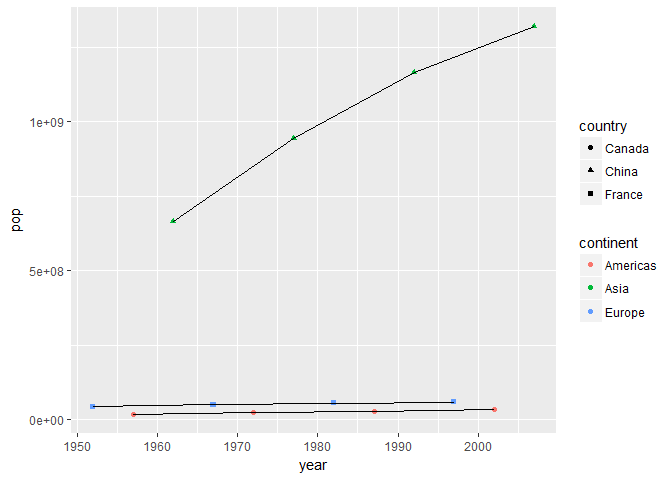
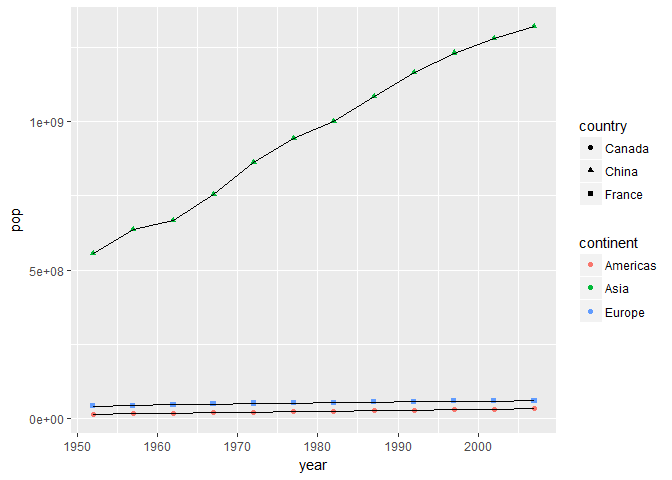
Finish the homework2

diff --git a/hw2/Gapminder_data.md b/hw2/Gapminder_data.md
@@ -9,7 +9,7 @@ Bring rectangular data in
 ``` r
 ##install.packages("gapminder")
 
-##install.packages("tidyverse")
+##install.packages("tidyverse") 
 ```
 
 ### Load the data
@@ -529,7 +529,9 @@ table(gapminder$continent)
 barplot(table(gapminder$continent))
 ```
 
-![](Gapminder_data_files/figure-markdown_github-ascii_identifiers/unnamed-chunk-19-1.png) From above, we can find how many data in different continent. Asia should be a typical value, because Asia has the largest data in `gapminder`. From the plot, it shows how spread of the `continent`. the Categorial variable `country`.
+![](Gapminder_data_files/figure-markdown_github-ascii_identifiers/unnamed-chunk-19-1.png)
+
+From above, we can find how many data in different continent. Asia should be a typical value, because Asia has the largest data in `gapminder`. From the plot, it shows how spread of the `continent`. the Categorial variable `country`.
 
 ``` r
 table(gapminder$country)
@@ -637,7 +639,9 @@ table(gapminder$country)
 barplot(table(gapminder$country))
 ```
 
-![](Gapminder_data_files/figure-markdown_github-ascii_identifiers/unnamed-chunk-20-1.png) From above, we can find 12 data for each country. And from the barplot, the `country` variable should have uniform distribution.
+![](Gapminder_data_files/figure-markdown_github-ascii_identifiers/unnamed-chunk-20-1.png)
+
+From above, we can find 12 data for each country. And from the barplot, the `country` variable should have uniform distribution.
 
 ##### Quantitative variable
 
@@ -665,7 +669,9 @@ gapminder %>%
 hist(gapminder$lifeExp)
 ```
 
-![](Gapminder_data_files/figure-markdown_github-ascii_identifiers/unnamed-chunk-21-1.png) The mean for lifeExp is 59.47. Consider about spread, if we use standard diviation: sd =12.9. From the plot above, it can clearly see that the distribution skewed to the right. Most of the data fall in the interval(65,80).
+![](Gapminder_data_files/figure-markdown_github-ascii_identifiers/unnamed-chunk-21-1.png)
+
+The mean for lifeExp is 59.47. Consider about spread, if we use standard diviation: sd =12.9. From the plot above, it can clearly see that the distribution skewed to the right. Most of the data fall in the interval(65,80).
 
 The Quantitative variable `pop`.
 
@@ -691,7 +697,9 @@ gapminder %>%
 hist(gapminder$pop)
 ```
 
-![](Gapminder_data_files/figure-markdown_github-ascii_identifiers/unnamed-chunk-22-1.png) The mean for lifeExp is 29601212. Consider about spread, if we use standard diviation: sd =106157897. From the plot above, it can clearly see that the distribution skewed to the left. Most of the data fall in the interval(0, 10^8).
+![](Gapminder_data_files/figure-markdown_github-ascii_identifiers/unnamed-chunk-22-1.png)
+
+The mean for lifeExp is 29601212. Consider about spread, if we use standard diviation: sd =106157897. From the plot above, it can clearly see that the distribution skewed to the left. Most of the data fall in the interval(0, 10^8).
 
 Explore various plot types
 --------------------------
@@ -723,7 +731,7 @@ p1 + geom_point(aes(color=continent,size=year), alpha = 0.5)+scale_x_log10()
 
 ``` r
 new2<- gapminder %>% 
-  filter(country==c("France", "Canada", "China")) %>% 
+  filter(country%in%c("France", "Canada", "China")) %>% 
   select(country,continent,year,pop)  
 ```
 
@@ -735,7 +743,11 @@ p2 + geom_point(aes(shape=country, color= continent))+
 geom_line(aes(group = country))
 ```
 
-![](Gapminder_data_files/figure-markdown_github-ascii_identifiers/unnamed-chunk-26-1.png) \#\#\#\# Scatterplot 3: Scatterplot of 'year' and 'lifeExp' Using `geom_jitter` and `geom_smooth`
+![](Gapminder_data_files/figure-markdown_github-ascii_identifiers/unnamed-chunk-26-1.png)
+
+#### Scatterplot 3: Scatterplot of 'year' and 'lifeExp'
+
+Using `geom_jitter` and `geom_smooth`
 
 ``` r
 ggplot(gapminder, aes(x = year, y = lifeExp,
@@ -746,7 +758,9 @@ ggplot(gapminder, aes(x = year, y = lifeExp,
 
     ## `geom_smooth()` using method = 'loess'
 
-![](Gapminder_data_files/figure-markdown_github-ascii_identifiers/unnamed-chunk-27-1.png) Seperate different continent by using `facet_wrap()`
+![](Gapminder_data_files/figure-markdown_github-ascii_identifiers/unnamed-chunk-27-1.png)
+
+Seperate different continent by using `facet_wrap()`
 
 ``` r
 ggplot(gapminder, aes(x = year, y = lifeExp,
@@ -761,3 +775,118 @@ geom_jitter(alpha = 0.5, size = 2)+
 ![](Gapminder_data_files/figure-markdown_github-ascii_identifiers/unnamed-chunk-28-1.png)
 
 -   **A plot of one quantitative variable. Maybe a histogram or densityplot or frequency polygon.**
+
+##### Histogram for gdpPercap
+
+``` r
+p3<-ggplot(gapminder,aes(x = gdpPercap ))
+p3+geom_histogram(aes(fill=continent))
+```
+
+    ## `stat_bin()` using `bins = 30`. Pick better value with `binwidth`.
+
+![](Gapminder_data_files/figure-markdown_github-ascii_identifiers/unnamed-chunk-29-1.png)
+
+##### Density plot of gdpPercap except "Asia".
+
+``` r
+new3<- gapminder %>% 
+  filter(continent!= "Asia") %>% 
+  select(continent, country, gdpPercap)
+ggplot(new3,aes(x = gdpPercap, fill = continent)) + 
+         geom_density(alpha = 0.25)
+```
+
+![](Gapminder_data_files/figure-markdown_github-ascii_identifiers/unnamed-chunk-30-1.png)
+
+##### Frequency polygon of gdpPercap
+
+``` r
+ggplot(gapminder, aes(x = gdpPercap, color = continent)) +geom_freqpoly()
+```
+
+    ## `stat_bin()` using `bins = 30`. Pick better value with `binwidth`.
+
+![](Gapminder_data_files/figure-markdown_github-ascii_identifiers/unnamed-chunk-31-1.png)
+
+-   **A plot of one quantitative variable and one categorical. Maybe boxplots for several continents or countries.**
+
+Creat a subset for continent, and exclude Oceania boxplot of the quantitative variable `gdpPercap` and categorical variable `continent` (except Oceania)
+
+``` r
+new4<- gapminder %>% 
+  filter(continent!= "Oceania") %>% 
+  select(continent, country, gdpPercap) %>% 
+  arrange(country, continent, gdpPercap)
+```
+
+``` r
+ggplot(gapminder, aes(x = continent, y = gdpPercap)) + geom_boxplot()
+```
+
+![](Gapminder_data_files/figure-markdown_github-ascii_identifiers/unnamed-chunk-33-1.png)
+
+Use of dplyr and %&gt;%
+-----------------------
+
+We want to compare different continent gdp density when country's gdp&lt;500 billion.
+
+``` r
+new5<- gapminder%>%
+  select(lifeExp, continent, country, year, gdpPercap, pop) %>% 
+  mutate(gdp=gdpPercap * pop, gdp=round(gdp/1000000000, 1))%>%
+  arrange(year,desc(gdp),gdpPercap,pop)  %>% 
+  select(c(-gdpPercap,-pop))%>% 
+  filter(gdp < 500)
+
+ggplot(new5,aes(x = gdp, fill = continent)) + 
+         geom_density(alpha = 0.25)
+```
+
+![](Gapminder_data_files/figure-markdown_github-ascii_identifiers/unnamed-chunk-34-1.png)
+
+The method above, I use `select`, `mutate`, `arrange`and `filter` to find a subset of data.
+
+But I want to do more!
+----------------------
+
+``` r
+filter(gapminder, country == c("Rwanda", "Afghanistan"))
+```
+
+    ## # A tibble: 12 x 6
+    ##        country continent  year lifeExp      pop gdpPercap
+    ##         <fctr>    <fctr> <int>   <dbl>    <int>     <dbl>
+    ##  1 Afghanistan      Asia  1957  30.332  9240934  820.8530
+    ##  2 Afghanistan      Asia  1967  34.020 11537966  836.1971
+    ##  3 Afghanistan      Asia  1977  38.438 14880372  786.1134
+    ##  4 Afghanistan      Asia  1987  40.822 13867957  852.3959
+    ##  5 Afghanistan      Asia  1997  41.763 22227415  635.3414
+    ##  6 Afghanistan      Asia  2007  43.828 31889923  974.5803
+    ##  7      Rwanda    Africa  1952  40.000  2534927  493.3239
+    ##  8      Rwanda    Africa  1962  43.000  3051242  597.4731
+    ##  9      Rwanda    Africa  1972  44.600  3992121  590.5807
+    ## 10      Rwanda    Africa  1982  46.218  5507565  881.5706
+    ## 11      Rwanda    Africa  1992  23.599  7290203  737.0686
+    ## 12      Rwanda    Africa  2002  43.413  7852401  785.6538
+
+The given code is wrong, we cannot get all the data for "Rwanda", "Afghanistan". We set country == c("Rwanda", "Afghanistan"), so `country` firstly equal to "Rwanda", then if the system find the "Rwanda", then the variable `country` will automatically equal to "Afghanistan"; if the system find the "Afghanistan", then the variable `country` will automatically equal to "Rwanda", and the system will repete this steps again and again. Therefore if we use `country`==c("Rwanda", "Afghanistan"), we will lost half of the data. The right way should use `%in%` in stead of `==`.
+
+``` r
+filter(gapminder, country %in% c("Rwanda", "Afghanistan"))
+```
+
+    ## # A tibble: 24 x 6
+    ##        country continent  year lifeExp      pop gdpPercap
+    ##         <fctr>    <fctr> <int>   <dbl>    <int>     <dbl>
+    ##  1 Afghanistan      Asia  1952  28.801  8425333  779.4453
+    ##  2 Afghanistan      Asia  1957  30.332  9240934  820.8530
+    ##  3 Afghanistan      Asia  1962  31.997 10267083  853.1007
+    ##  4 Afghanistan      Asia  1967  34.020 11537966  836.1971
+    ##  5 Afghanistan      Asia  1972  36.088 13079460  739.9811
+    ##  6 Afghanistan      Asia  1977  38.438 14880372  786.1134
+    ##  7 Afghanistan      Asia  1982  39.854 12881816  978.0114
+    ##  8 Afghanistan      Asia  1987  40.822 13867957  852.3959
+    ##  9 Afghanistan      Asia  1992  41.674 16317921  649.3414
+    ## 10 Afghanistan      Asia  1997  41.763 22227415  635.3414
+    ## # ... with 14 more rows
